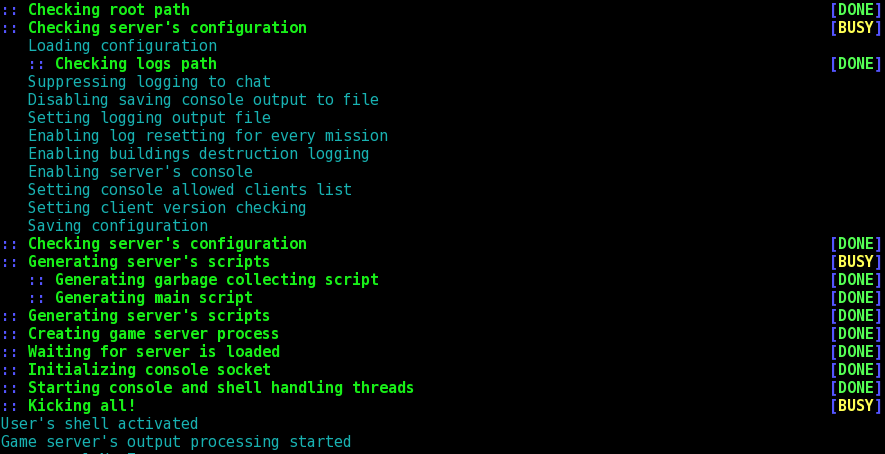
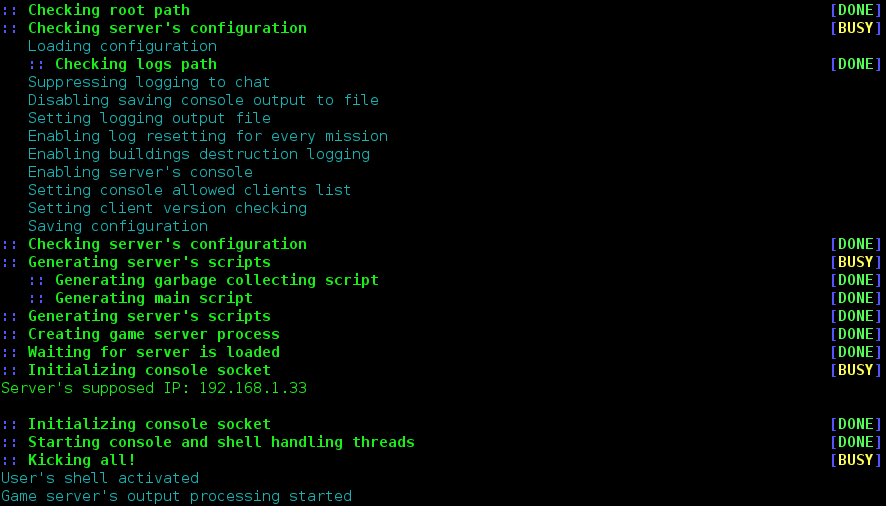
Launching info updated

Changed region(s): [[0.0, 0.0, 0.4881, 1.0], [0.9153, 0.4626, 1.0, 0.9251], [0.9153, 0.0, 1.0, 0.1542]]

diff --git a/commander.html b/commander.html
@@ -38,7 +38,12 @@
 						<li><a href="#install_win">Windows</a></li>
 					</ul>
 				</li>
-				<li><a href="#launching">Launching</a></li>
+				<li><a href="#launching">Launching</a>
+					<ul>
+						<li><a href="#launch_lin">Linux</a></li>
+						<li><a href="#launch_win">Windows</a></li>
+					</ul>
+				</li>
 				<li><a href="#changing_lang">Changing language</a></li>
 				<li><a href="#developer_api">Developer's API</a></li>
 			</ul>
@@ -197,6 +202,13 @@ make && make install-strip</pre>
 			</script>
 			<hr/>
 			<h3><a id="gotop" href="#contents"><div class="gotop_bg" title="Go top"></div></a><a id="launching">Launching</a></h3>
+			<p>It is recommended to have only one network adapter to be turned on. If you have wired and wireless or
+				some phisical and virtual adapters working together then server's IP-address might not be recognized properly.</p>
+			<ul>
+				<li><a href="#launch_lin">Linux</a></li>
+				<li><a href="#launch_win">Windows</a></li>
+			</ul>
+			<h3><a id="gotop" href="#launching"><div class="gotop_bg" title="Go top"></div></a><a id="launch_lin">Linux</a></h3>
 			<p>1. Go to installed horus-commander directory:</p>
 			<pre class="code_snippet">cd /path/to/your/il-2/server/directory/horus-commander</pre>
 			<p>2. Start commander:</p>
@@ -204,7 +216,11 @@ make && make install-strip</pre>
 			<p>You should see such output:</p>
 			<img class="screensh" src="img/exec/starting.png"/>
 			<p>Entering shell command 'exit' will cause to this:</p>
-			<img class="screensh" src="img/exec/stopping.png"/>
+			<img class="screensh" src="img/exec/stopping.png"/><br/>
+			<h3><a id="gotop" href="#launching"><div class="gotop_bg" title="Go top"></div></a><a id="launch_win">Windows</a></h3>
+			<p>Launching on Windows is quite similar to described above. Go to installed horus-commander directory and
+				launch "horus-commander.exe". You should see such output:</p>
+			<img class="screensh" src="img/exec/starting_win.png"/>
 
 			<hr/>
 			<h3><a id="gotop" href="#contents"><div class="gotop_bg" title="Go top"></div></a><a id="changing_lang">Changing language</a></h3>
